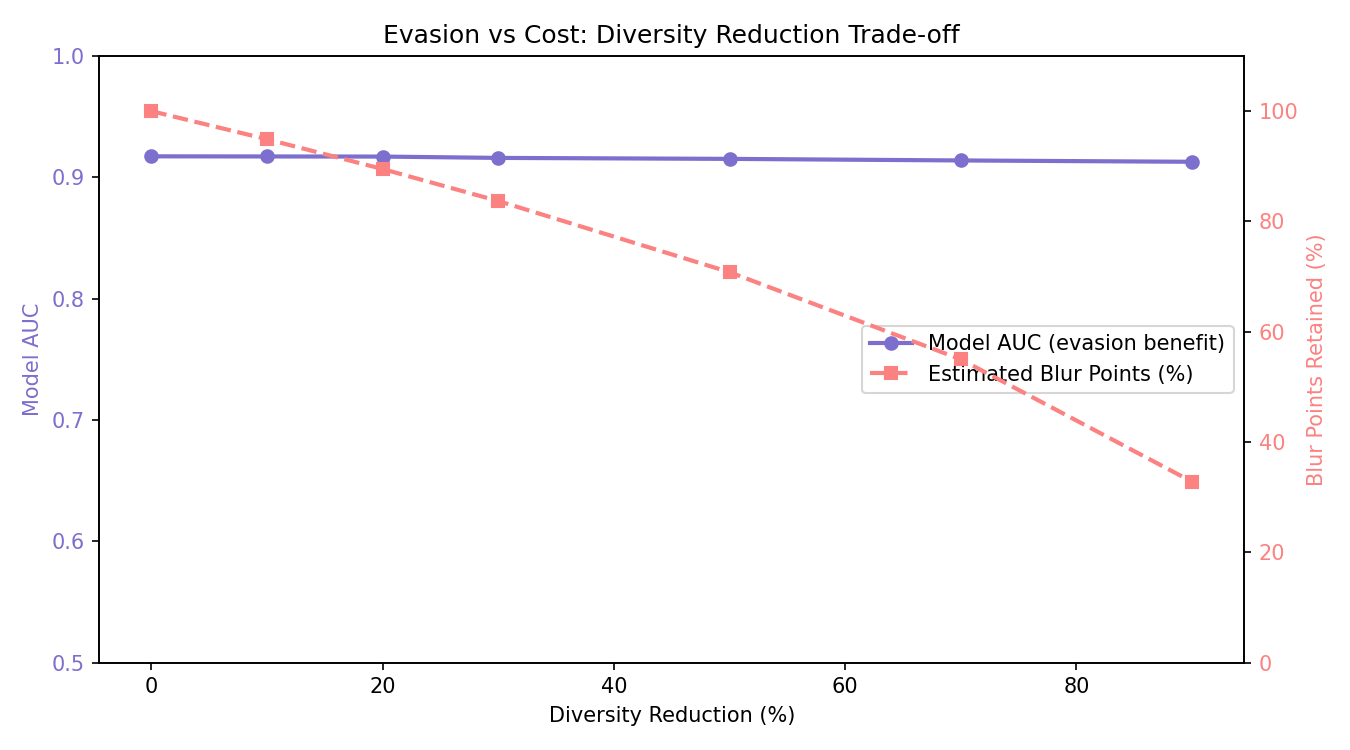
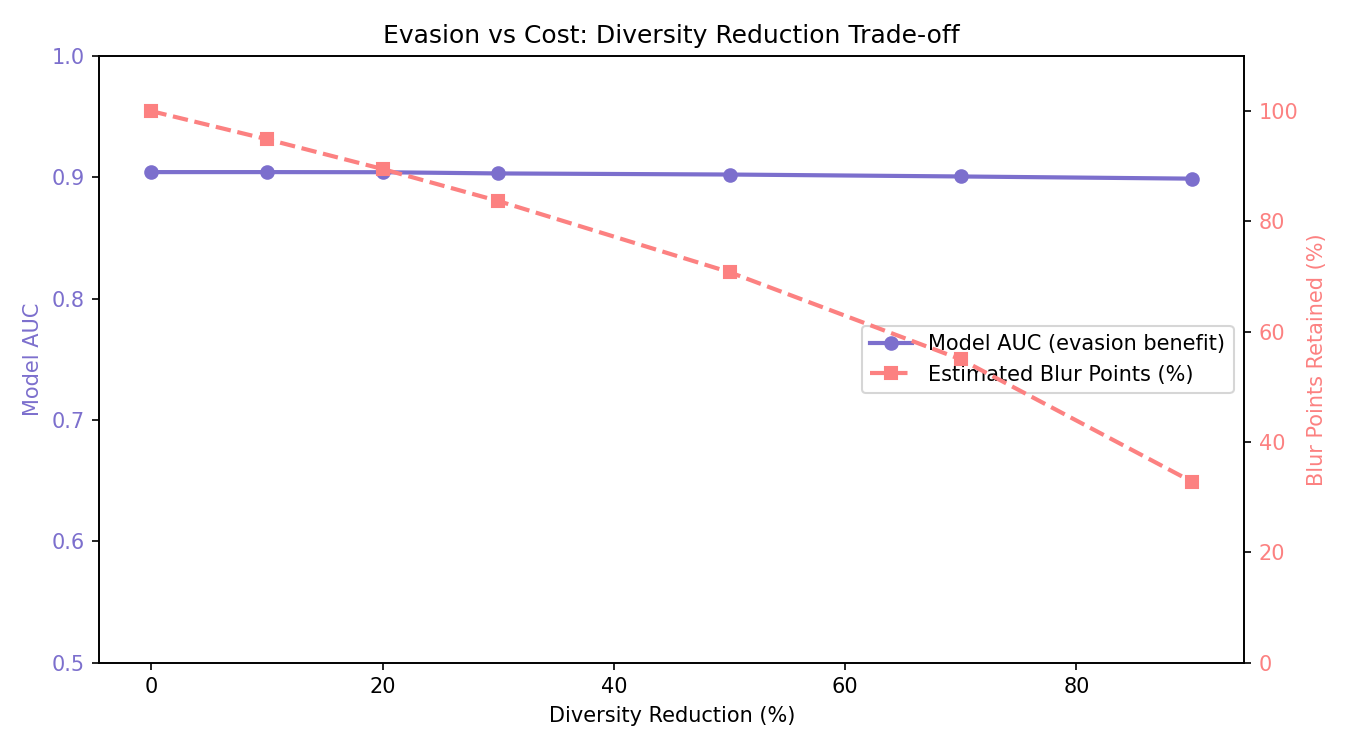
fix exp 23: use 5-fold CV for adversarial cost baseline

Changed region(s): [[0.0933, 0.184, 0.9022, 0.2453]]

diff --git a/23_adversarial_cost.py b/23_adversarial_cost.py
@@ -3,11 +3,14 @@
 Quantify the real cost of evasion: if a sybil reduces diversity by X%,
 how much do their Blur points (estimated from buy_collections) drop?
 Shows the self-defeating nature of diversity reduction evasion.
+
+Uses 5-fold CV so AUC values are consistent with the main results (exp 02).
 """
 import pandas as pd
 import numpy as np
 import lightgbm as lgb
 from sklearn.metrics import roc_auc_score
+from sklearn.model_selection import StratifiedKFold
 import matplotlib
 matplotlib.use('Agg')
 import matplotlib.pyplot as plt
@@ -19,34 +22,50 @@ FEATURES = [c for c in df.columns if c not in ['address', 'is_sybil']]
 
 X_orig = df[FEATURES].fillna(0).values.astype(float)
 y = df['is_sybil'].values
-
 col_idx = FEATURES.index('buy_collections')
 
-m = lgb.LGBMClassifier(n_estimators=500, learning_rate=0.05, num_leaves=31,
-                        class_weight='balanced', random_state=42, verbose=-1)
-m.fit(X_orig, y)
-baseline_auc = roc_auc_score(y, m.predict_proba(X_orig)[:, 1])
+# Blur points proxy: proportional to buy_count * sqrt(buy_collections)
+sybil_mask = y == 1
+buy_count_col = FEATURES.index('buy_count')
+baseline_points_vec = X_orig[sybil_mask, buy_count_col] * np.sqrt(
+    np.clip(X_orig[sybil_mask, col_idx], 1, None))
+baseline_points = baseline_points_vec.mean()
 
-# For Blur, points scale roughly with sqrt(collections) * activity (simplified Blur S2 formula)
-# Proxy: points ~ buy_count * sqrt(buy_collections)
-sybils = df[df['is_sybil'] == 1].copy()
-sybils['proxy_points'] = sybils['buy_count'] * np.sqrt(sybils['buy_collections'].clip(lower=1))
-baseline_points = sybils['proxy_points'].mean()
-
+skf = StratifiedKFold(n_splits=5, shuffle=True, random_state=42)
 reduction_levels = [0, 0.1, 0.2, 0.3, 0.5, 0.7, 0.9]
+
+# For each reduction level, collect OOF predictions
+oof_scores = {r: [] for r in reduction_levels}
+
+for fold, (train_idx, test_idx) in enumerate(skf.split(X_orig, y)):
+    X_train, y_train = X_orig[train_idx], y[train_idx]
+    X_test_orig, y_test = X_orig[test_idx], y[test_idx]
+
+    m = lgb.LGBMClassifier(n_estimators=500, learning_rate=0.05, num_leaves=31,
+                            class_weight='balanced', random_state=42, verbose=-1)
+    m.fit(X_train, y_train)
+
+    for r in reduction_levels:
+        X_test_mod = X_test_orig.copy()
+        X_test_mod[:, col_idx] = X_test_orig[:, col_idx] * (1 - r)
+        auc = roc_auc_score(y_test, m.predict_proba(X_test_mod)[:, 1])
+        oof_scores[r].append(auc)
+
+baseline_auc = np.mean(oof_scores[0])
+print(f"Baseline AUC (5-fold CV): {baseline_auc:.4f}")
+
 results = []
 for r in reduction_levels:
-    X_mod = X_orig.copy()
-    X_mod[:, col_idx] = X_orig[:, col_idx] * (1 - r)
-    auc = roc_auc_score(y, m.predict_proba(X_mod)[:, 1])
-
-    # Points also drop
-    mod_collections = sybils['buy_collections'] * (1 - r)
-    mod_points = (sybils['buy_count'] * np.sqrt(mod_collections.clip(lower=1))).mean()
-    points_pct = mod_points / baseline_points * 100
+    auc = np.mean(oof_scores[r])
     detection_pct = auc / baseline_auc * 100
 
-    results.append({'diversity_reduction_pct': int(r*100), 'auc': round(auc, 4),
+    # Points also drop (simple formula, same for all folds)
+    mod_collections = np.clip(X_orig[sybil_mask, col_idx] * (1 - r), 1, None)
+    mod_points = (X_orig[sybil_mask, buy_count_col] * np.sqrt(mod_collections)).mean()
+    points_pct = mod_points / baseline_points * 100
+
+    results.append({'diversity_reduction_pct': int(r * 100),
+                    'auc': round(auc, 4),
                     'auc_vs_baseline_pct': round(detection_pct, 1),
                     'points_vs_baseline_pct': round(points_pct, 1)})
     print(f"  Diversity -{r*100:.0f}%: AUC={auc:.4f} | Points retained={points_pct:.1f}%")
